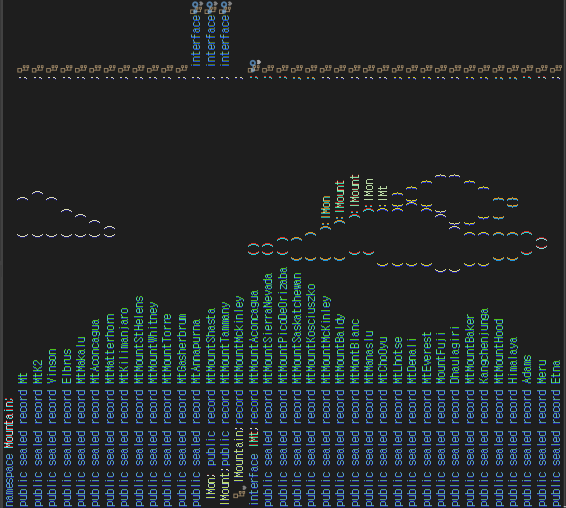
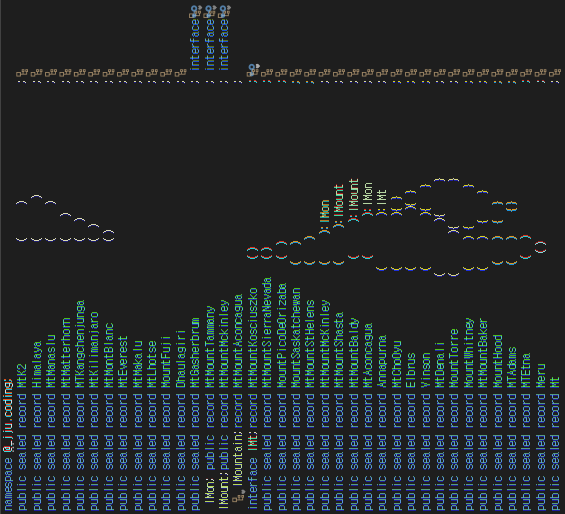
art : edit mountain

diff --git a/Success/Mountain/Mountain.cs b/Success/Mountain/Mountain.cs
@@ -1,39 +1,40 @@
-namespace Mountain; public const string Data = "@_jju.coding";
-public sealed record Mt                       (     )                    ;
-public sealed record MtK2                     (      )                   ;
-public sealed record Vinson                   (     )                    ;
-public sealed record Elbrus                   (   )                      ;
-public sealed record MtMakalu                 (  )                       ;
-public sealed record MtAconcagua              ( )                        ;
-public sealed record MtMatterhorn             ()                         ;
-public sealed record MtKilimanjaro                                       ;
-public sealed record MtMountStHelens                                     ;
-public sealed record MtMountWhitney                                      ;
-public sealed record MtMountTorre                                        ;
-public sealed record MtGasherbrum                                        ;
-public sealed record MtAnnapurna                                         ; interface
- IMon; public record MtMountShasta                                       ; interface
-IMount;public record MtMountTammany                                      ; interface
-    IMountain;record MtMountMckinley                                     ;
-interface IMt;record MtMountAconcagua      ()                            ; 
+namespace @_jju.coding; 
+public sealed record MtK2                     (     )                    ;
+public sealed record Himalaya                 (      )                   ;
+public sealed record MtManaslu                (     )                    ;
+public sealed record MtMatterhorn             (   )                      ;
+public sealed record MTKangchenjunga          (  )                       ;
+public sealed record MtKilimanjaro            ( )                        ;
+public sealed record MtMontBlanc              ()                         ;
+public sealed record MtEverest                                           ;
+public sealed record MtMakalu                                            ;
+public sealed record MtLhotse                                            ;
+public sealed record MountFuji                                           ;
+public sealed record Dhaulagiri                                          ;
+public sealed record MtGasherbrum                                        ; interface
+ IMon; public record MtMountTammany                                      ; interface
+IMount;public record MtMountMckinley                                     ; interface
+    IMountain;record MtMountAconcagua                                    ;
+interface IMt;record MtMountKosciuszko     ()                            ; 
 public sealed record MtMountSierraNevada   ()                            ;
-public sealed record MtMountPicoDeOrizaba  ( )                           ;
-public sealed record MtMountSaskatchewan  (  )                           ;
-public sealed record MtMountKosciuszko    (   )                          ;
+public sealed record MountPicoDeOrizaba    ( )                           ;
+public sealed record MountSaskatchewan    (  )                           ;
+public sealed record MtMountStHelens      (   )                          ;
 public sealed record MtMountMcKinley      (    ):IMon                    ;
-public sealed record MtMountBaldy         (     ):IMount                 ;
-public sealed record MtMontBlanc           (     ):IMount                ;
-public sealed record MtManaslu             (      ):IMon                 ;
-public sealed record MtChoOyu            (        ):IMt                  ;
-public sealed record MtLhotse            (        ){ }                   ;
-public sealed record MtDenali            (         ){ }                  ;
-public sealed record MtEverest           (        ){   }                 ;
-public sealed record MountFuji          (        ){     }                ;
-public sealed record Dhaulagiri         (      ){       }                ;
-public sealed record MtMountBaker        (    ) {      }                 ;
-public sealed record Kangchenjunga       (    )  {    }                  ;
-public sealed record MtMountHood          (   )  {  }                    ;
-public sealed record Himalaya             (   )    {}                    ;
-public sealed record Adams                 (  )                          ;
+public sealed record MtMountShasta        (     ):IMount                 ;
+public sealed record MtMountBaldy          (     ):IMount                ;
+public sealed record MtAconcagua           (      ):IMon                 ;
+public sealed record Annapurna           (        ):IMt                  ;
+public sealed record MtChoOyu            (        ){ }                   ;
+public sealed record Elbrus              (         ){ }                  ;
+public sealed record Vinson              (        ){   }                 ;
+public sealed record MtDenali           (        ){     }                ;
+public sealed record MountTorre         (      ){       }                ;
+public sealed record MountWhitney        (    ) {      }                 ;
+public sealed record MtMountBaker        (    )  {    }                  ;
+public sealed record MountHood            (   )  {  }                    ;
+public sealed record MTAdams              (   )    {}                    ;
+public sealed record MTEtna                (  )                          ;
 public sealed record Meru                   ()                           ;
-public sealed record Etna                                                ;
+public sealed record Mt                                                  ;
+
